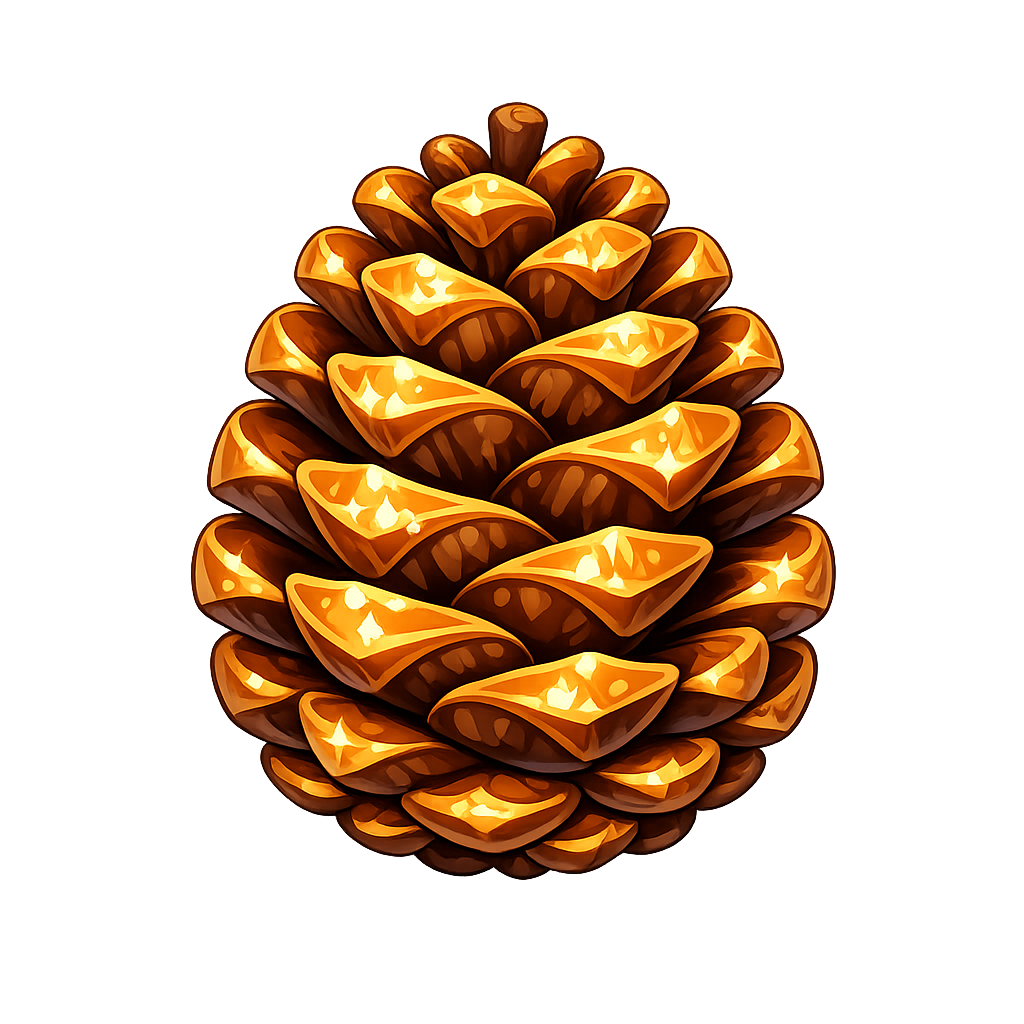
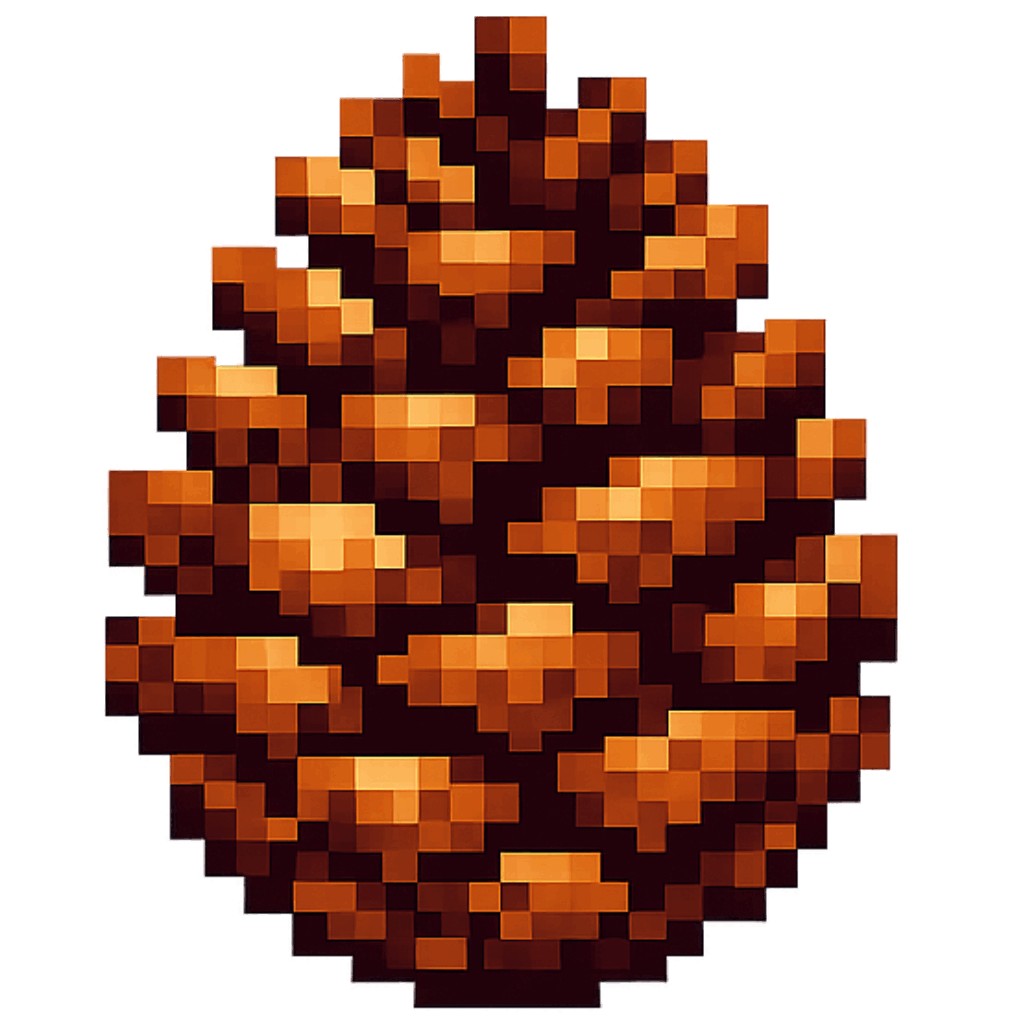
Feature: New CSS styles and ConeIcon component

diff --git a/web/src/components/meta/MetaScreen.jsx b/web/src/components/meta/MetaScreen.jsx
@@ -8,6 +8,7 @@ import {AchievementsGrid} from "./AchievementsGrid.jsx"
 import {ShardsLaboratory} from "./ShardsLaboratory.jsx"
 import {LifetimeCard} from "./LifetimeCard.jsx"
 import {StatCard} from "../stats/StatCard.jsx"
+import { ConeIcon } from '../ui/ConeIcon'
 
 
 export function MetaScreen() {
@@ -39,12 +40,12 @@ export function MetaScreen() {
   const forecastStats = [
     { icon: '🔮', label: 'Прогноз', value: formatNumber(prestige.projectedShards), hint: 'осколков за ребёрс' },
     { icon: '📊', label: 'Квота', value: formatNumber(prestige.quotaScore), hint: 'текущая оценка цикла' },
-    { icon: '🌰', label: 'След. квота', value: `${formatNumber(prestige.nextQuota.shishki)} 🌰`, hint: 'по шишкам' },
+    { icon: <ConeIcon />, label: 'След. квота', value: <>{formatNumber(prestige.nextQuota.shishki)} <ConeIcon /></>, hint: 'по шишкам' },
     { icon: '📚', label: 'След. знания', value: `${formatNumber(prestige.nextQuota.knowledge)} 📚`, hint: 'по знаниям' },
   ]
 
   const lifetimeStats = [
-    { icon: '🌰', label: 'Шишки', value: formatNumber(state.lifetimeShishkiEarned), hint: 'за всё время' },
+    { icon: <ConeIcon />, label: 'Шишки', value: formatNumber(state.lifetimeShishkiEarned), hint: 'за всё время' },
     { icon: '💵', label: 'Деньги', value: formatNumber(state.lifetimeMoneyEarned), hint: 'заработано всего' },
     { icon: '📚', label: 'Знания', value: formatNumber(state.lifetimeKnowledgeEarned), hint: 'заработано всего' },
     { icon: '⚡', label: 'Мега-клики', value: formatNumber(state.megaClicks), hint: 'ручные усиления' },
@@ -55,7 +56,7 @@ export function MetaScreen() {
   const prestigeLabSummary = [
     { icon: '💎', label: 'На руках', value: `${formatNumber(state.prestigeShards)} 💎`, hint: 'свободный баланс' },
     { icon: '🏦', label: 'Заработано', value: `${formatNumber(state.totalPrestigeShardsEarned)} 💎`, hint: 'за все циклы' },
-    { icon: '🌰', label: 'Квота шишек', value: `-${formatNumber(prestige.bonuses.shishkiQuotaReduction * 100)}%`, hint: 'снижение требования' },
+    { icon: <ConeIcon />, label: 'Квота шишек', value: `-${formatNumber(prestige.bonuses.shishkiQuotaReduction * 100)}%`, hint: 'снижение требования' },
     { icon: '📚', label: 'Квота знаний', value: `-${formatNumber(prestige.bonuses.knowledgeQuotaReduction * 100)}%`, hint: 'снижение требования' },
     { icon: '🏆', label: 'Достижения', value: `-${formatNumber(prestige.bonuses.achievementQuotaReduction)}`, hint: 'срез по квоте' },
     { icon: '🚀', label: 'Бонус', value: `+x${formatNumber(prestige.bonuses.permanentMultiplierBonus)}`, hint: 'к постоянному престижу' },
@@ -91,7 +92,7 @@ export function MetaScreen() {
             {!prestige.isUnlocked ? (
               <>
                 <div className="unlock-progress">
-                  <ProgressRow label="🌰 Лайфтайм шишки" current={prestige.unlockProgress.shishki} goal={prestige.unlockRule.shishki} />
+                  <ProgressRow label={<><ConeIcon /> Лайфтайм шишки</>} current={prestige.unlockProgress.shishki} goal={prestige.unlockRule.shishki} />
                   <ProgressRow label="📚 Лайфтайм знания" current={prestige.unlockProgress.knowledge} goal={prestige.unlockRule.knowledge} alt />
                   <ProgressRow label="🏆 Достижения" current={prestige.unlockProgress.achievements} goal={prestige.unlockRule.achievements} />
                 </div>
@@ -103,7 +104,7 @@ export function MetaScreen() {
             ) : (
               <>
                 <div className="unlock-progress">
-                  <ProgressRow label="🌰 Квота шишек в этом цикле" current={prestige.cycleProgress.shishki} goal={prestige.rebirthRule.shishki} />
+                  <ProgressRow label={<><ConeIcon /> Квота шишек в этом цикле</>} current={prestige.cycleProgress.shishki} goal={prestige.rebirthRule.shishki} />
                   <ProgressRow label="📚 Квота знаний в этом цикле" current={prestige.cycleProgress.knowledge} goal={prestige.rebirthRule.knowledge} alt />
                   <ProgressRow label="🏆 Квота достижений" current={prestige.cycleProgress.achievements} goal={prestige.rebirthRule.achievements} />
                 </div>

diff --git a/web/src/components/clicker/ProgressOverview.jsx b/web/src/components/clicker/ProgressOverview.jsx
@@ -3,6 +3,7 @@ import { useGameContext } from '../../context/GameContext'
 import { formatNumber } from '../../lib/format'
 import {StatCard} from "../stats/StatCard.jsx"
 import {UnlockCard} from "./UnlockCard.jsx"
+import { ConeIcon } from '../ui/ConeIcon'
 
 
 export function ProgressOverview() {
@@ -18,7 +19,7 @@ export function ProgressOverview() {
     { icon: '🔮', label: 'След. награда', value: prestige.isUnlocked ? `${formatNumber(prestige.projectedShards)} 💎` : 'закрыто', hint: 'если ребёрс сейчас', },
   ]
   const progressStats = [
-    { icon: '🌰', label: 'Всего шишек', value: state.lifetimeShishkiEarned },
+    { icon: <ConeIcon />, label: 'Всего шишек', value: state.lifetimeShishkiEarned },
     { icon: '💵', label: 'Денег в цикле', value: state.totalMoneyEarned },
     { icon: '📚', label: 'Знаний в цикле', value: state.totalKnowledgeEarned },
     { icon: '⚡', label: 'Мега-кликов', value: state.megaClicks },
@@ -51,7 +52,7 @@ export function ProgressOverview() {
         {prestige.isUnlocked ? (
           <div className="unlock-progress">
             <div className="unlock-progress__row">
-              <span>🌰 Шишки цикла</span>
+              <span><ConeIcon /> Шишки цикла</span>
               <span>{formatNumber(prestige.cycleProgress.shishki)} / {formatNumber(prestige.rebirthRule.shishki)}</span>
             </div>
             <div className="unlock-progress__track">

diff --git a/web/src/components/clicker/ClickerButton.jsx b/web/src/components/clicker/ClickerButton.jsx
@@ -8,7 +8,9 @@ import { ClickBurst } from '../ui/ClickBurst'
 import { formatNumber } from '../../lib/format'
 import discoImage from '../../assets/disco.gif'
 import coneImage from '../../assets/cone.png'
+import coneV2Image from '../../assets/conev2.png'
 import shishkaSound from '../../assets/audio/ui/shishka.mp3'
+import { ConeIcon } from '../ui/ConeIcon'
 
 function pickRandom(pool) {
   return pool[Math.floor(Math.random() * pool.length)]
@@ -117,7 +119,7 @@ export function ClickerButton() {
 
   const metricItems = useMemo(
     () => [
-      { label: 'за клик', value: `+${formatNumber(state.clickPower)} 🌰` },
+      { label: 'за клик', value: <><span>+{formatNumber(state.clickPower)}</span> <ConeIcon /></> },
       { label: 'мега-шанс', value: `${formatNumber(state.megaClickChance)}%` },
       { label: 'эмодзи', value: `${formatNumber(state.emojiMegaChance)}%` },
       { label: 'лимит частиц', value: formatNumber(particleLimitHint) },
@@ -283,7 +285,9 @@ export function ClickerButton() {
               setParticles((current) => current.filter((entry) => entry.id !== particle.id))
             }}
           >
-            {particle.symbol}
+            {particle.symbol === '🌰'
+              ? <img src={coneV2Image} alt="" className="cone-icon" />
+              : particle.symbol}
           </span>
         ))}
 

diff --git a/web/src/components/clicker/ProgressLoopCard.jsx b/web/src/components/clicker/ProgressLoopCard.jsx
@@ -1,11 +1,13 @@
+import { ConeIcon } from '../ui/ConeIcon'
+
 export const ProgressLoopCard = () => {
 	return (
 		<article className="meta-card progress-loop-card">
 			<div className="meta-card__kicker">Петля прогресса</div>
 			<h3 className="meta-card__title">Как теперь устроен цикл</h3>
 			<div className="progress-loop__steps">
-				<div className="loop-step"><b>1.</b> Кликаешь и фармишь <b>🌰 шишки</b>.</div>
-				<div className="loop-step"><b>2.</b> Вкладываешь их в ветки за <b>💵 деньги</b>, <b>📚 знания</b> и <b>🌰 шишечные апгрейды</b>.</div>
+				<div className="loop-step"><b>1.</b> Кликаешь и фармишь <b><ConeIcon /> шишки</b>.</div>
+				<div className="loop-step"><b>2.</b> Вкладываешь их в ветки за <b>💵 деньги</b>, <b>📚 знания</b> и <b><ConeIcon /> шишечные апгрейды</b>.</div>
 				<div className="loop-step"><b>3.</b> Открываешь престиж, закрываешь квоту цикла и получаешь редкие <b>💎 осколки</b>.</div>
 			</div>
 		</article>

diff --git a/web/src/components/settings/SettingsScreen.jsx b/web/src/components/settings/SettingsScreen.jsx
@@ -13,6 +13,7 @@ import {SettingsSaveCard} from "./SettingsSaveCard.jsx"
 import {SettingsAudio} from "./SettingsAudio.jsx"
 import {SettingsEffects} from "./SettingsEffects.jsx"
 import {SettingsAbout} from "./SettingsAbout.jsx"
+import { ConeIcon } from '../ui/ConeIcon'
 
 
 export function SettingsScreen() {
@@ -34,7 +35,7 @@ export function SettingsScreen() {
   const effectSummary = [
     { icon: '✨', label: 'Эмодзи и шишки', value: `до ${visualEffectCaps.particleCap}`, hint: 'частицы на экране' },
     { icon: '🔢', label: 'Числа', value: `до ${visualEffectCaps.burstCap}`, hint: 'всплывающих значений' },
-    { icon: '🌰', label: 'Спрайты', value: `до ${visualEffectCaps.coneCap}`, hint: 'дополнительных шишек' },
+    { icon: <ConeIcon />, label: 'Спрайты', value: `до ${visualEffectCaps.coneCap}`, hint: 'дополнительных шишек' },
     { icon: '📦', label: 'Бюджет', value: visualEffectCaps.totalHint, hint: 'общий лимит эффектов' },
   ]
 

diff --git a/web/src/components/shop/LockBadge.jsx b/web/src/components/shop/LockBadge.jsx
@@ -1,4 +1,5 @@
 import {formatNumber} from "../../lib/format.js"
+import { ConeIcon } from '../ui/ConeIcon'
 
 
 export const LockBadge = ({ item }) => {
@@ -7,7 +8,7 @@ export const LockBadge = ({ item }) => {
 			<div className="shop-card__lock-title">🔒 Заблокировано</div>
 			<div className="shop-card__lock-text">{item.unlockText}</div>
 			<div className="shop-card__lock-progress">
-				<span>🌰 {formatNumber(item.unlockProgress.shishki)} / {formatNumber(item.unlockRule.shishki)}</span>
+				<span><ConeIcon /> {formatNumber(item.unlockProgress.shishki)} / {formatNumber(item.unlockRule.shishki)}</span>
 				<span>📚 {formatNumber(item.unlockProgress.knowledge)} / {formatNumber(item.unlockRule.knowledge)}</span>
 			</div>
 		</div>

diff --git a/web/src/components/clicker/UnlockCard.jsx b/web/src/components/clicker/UnlockCard.jsx
@@ -1,5 +1,6 @@
 import {formatNumber} from "../../lib/format.js"
 import {StatCard} from "../stats/StatCard.jsx"
+import { ConeIcon } from '../ui/ConeIcon'
 
 
 export const UnlockCard = ({ title, item, accentClass }) => {
@@ -30,7 +31,7 @@ export const UnlockCard = ({ title, item, accentClass }) => {
     >
       <div className="unlock-progress">
         <div className="unlock-progress__row">
-          <span>🌰 Шишки</span>
+          <span><ConeIcon /> Шишки</span>
           <span>{formatNumber(item.unlockProgress.shishki)} / {formatNumber(item.unlockRule.shishki)}</span>
         </div>
         <div className="unlock-progress__track">

diff --git a/web/src/components/shop/ShopCard.jsx b/web/src/components/shop/ShopCard.jsx
@@ -4,11 +4,12 @@ import { useSound } from '../../hooks/useSound'
 import buySound from '../../assets/audio/ui/blip1.mp3'
 import denySound from '../../assets/audio/ui/wpn_denyselect.mp3'
 import {LockBadge} from "./LockBadge.jsx"
+import { ConeIcon } from '../ui/ConeIcon'
 
 
 const CURRENCY_META = {
   money: { icon: '💵', label: 'деньги' },
-  shishki: { icon: '🌰', label: 'шишки' },
+  shishki: { icon: <ConeIcon />, label: 'шишки' },
   knowledge: { icon: '📚', label: 'знания' },
 }
 

diff --git a/web/src/components/stats/StatsBar.jsx b/web/src/components/stats/StatsBar.jsx
@@ -1,11 +1,12 @@
 import { useGameContext } from '../../context/GameContext'
 import { StatCard } from './StatCard'
 import { formatNumber } from '../../lib/format'
+import { ConeIcon } from '../ui/ConeIcon'
 
 export function buildStats(state, contributions) {
   return [
     {
-      icon: '🌰',
+      icon: <ConeIcon />,
       label: 'Шишки',
       value: state.shishki,
       hint: `+${formatNumber(state.shishkiPerSecond)} / сек`,

diff --git a/web/src/styles/base.css b/web/src/styles/base.css
@@ -17,6 +17,17 @@
   font-family: "SH-Font", monospace, serif !important;
 }
 
+/* Inline cone icon — replaces 🌰 emoji */
+.cone-icon {
+  display: inline-block;
+  width: 1.15em;
+  height: 1.15em;
+  vertical-align: -0.15em;
+  object-fit: contain;
+  pointer-events: none;
+  flex-shrink: 0;
+}
+
 html {
   scroll-behavior: smooth;
   scrollbar-width: none;

diff --git a/web/src/context/NavContext.jsx b/web/src/context/NavContext.jsx
@@ -1,9 +1,10 @@
 import { createContext, useContext, useState } from 'react'
+import { ConeIcon } from '../components/ui/ConeIcon'
 
 export const TABS = [
   {
     id: 'clicker',
-    icon: '🌰',
+    icon: <ConeIcon />,
     label: 'Кликер',
     description: 'Кликай шишку, следи за прогрессом',
   },

diff --git a/web/src/components/ui/ConeIcon.jsx b/web/src/components/ui/ConeIcon.jsx
@@ -1,0 +1,12 @@
+import coneImg from '../../assets/conev2.png'
+
+export function ConeIcon({ className = '' }) {
+  return (
+    <img
+      src={coneImg}
+      alt="шишка"
+      className={`cone-icon ${className}`.trim()}
+      draggable={false}
+    />
+  )
+}
